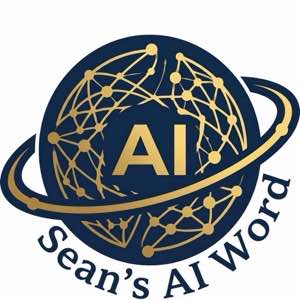
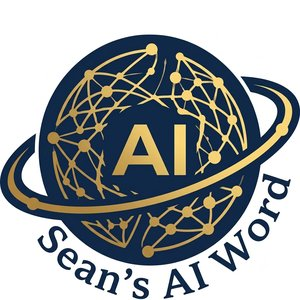
fix(seo): og:image 改为 300x300 28KB，满足微信 32KB 限制
微信朋友圈读取的是 og:image（非 wx:thumbnail），之前 og:image 指向
1024x1024 64KB 图片，超过微信 32KB 限制被拒。

修复：
- og-image.jpg 用 Python Pillow 重新压缩到 300x300 28KB
- og:image/wx:thumbnail 统一使用 28KB 图片
- 隐藏 img 改回 width=0 height=0（微信建议做法）
- 所有 URL 追加 v=3 参数强制刷新微信缓存

diff --git a/frontend/src/app/blog/[id]/layout.tsx b/frontend/src/app/blog/[id]/layout.tsx
@@ -37,14 +37,14 @@ function getSiteUrl(): string {
  * 将可能为相对路径的封面图 URL 转为绝对 URL（OG 要求绝对路径）
  */
 function resolveImageUrl(imagePath: string | null | undefined): string {
-  if (!imagePath) return `${getSiteUrl()}/og-image.jpg?v=2`;
+  if (!imagePath) return `${getSiteUrl()}/og-image.jpg?v=3`;
   if (imagePath.startsWith('http')) return imagePath;
   return `${getSiteUrl()}${imagePath.startsWith('/') ? '' : '/'}${imagePath}`;
 }
 
 /** 微信 thumbnail 专用：默认用 300x300 小图（微信限制 32KB），有封面图则用封面 */
 function resolveWechatThumbnail(imagePath: string | null | undefined): string {
-  if (!imagePath) return `${getSiteUrl()}/og-image-wechat.jpg?v=2`;
+  if (!imagePath) return `${getSiteUrl()}/og-image-wechat.jpg?v=3`;
   if (imagePath.startsWith('http')) return imagePath;
   return `${getSiteUrl()}${imagePath.startsWith('/') ? '' : '/'}${imagePath}`;
 }
@@ -110,17 +110,17 @@ export async function generateMetadata({
         title: "文章详情 - Sean's AI World",
         description: '个人技术博客，探索 AI 与软件开发',
         type: 'website',
-        images: [`${siteUrl}/og-image.jpg?v=2`],
+        images: [`${siteUrl}/og-image.jpg?v=3`],
       },
       twitter: {
         card: 'summary',
         title: "文章详情 - Sean's AI World",
         description: '个人技术博客，探索 AI 与软件开发',
-        images: [`${siteUrl}/og-image.jpg?v=2`],
+        images: [`${siteUrl}/og-image.jpg?v=3`],
       },
       other: {
         'wx:webpage': 'true',
-        'wx:thumbnail': `${siteUrl}/og-image-wechat.jpg?v=2`,
+        'wx:thumbnail': `${siteUrl}/og-image-wechat.jpg?v=3`,
       },
     };
   }
@@ -140,8 +140,8 @@ export async function generateMetadata({
       images: [
         {
           url: ogImage,
-          width: article.coverImage ? 1200 : 1024,
-          height: article.coverImage ? 630 : 1024,
+          width: article.coverImage ? 1200 : 300,
+          height: article.coverImage ? 630 : 300,
           alt: article.title,
         },
       ],

diff --git a/frontend/src/app/layout.tsx b/frontend/src/app/layout.tsx
@@ -36,9 +36,9 @@ export const metadata: Metadata = {
     siteName: "Sean's AI World",
     images: [
       {
-        url: '/og-image.jpg',
-        width: 1024,
-        height: 1024,
+        url: '/og-image.jpg?v=3',
+        width: 300,
+        height: 300,
         alt: "Sean's AI World",
       },
     ],
@@ -55,7 +55,7 @@ export const metadata: Metadata = {
   },
   other: {
     'wx:webpage': 'true',
-    'wx:thumbnail': `${SITE_URL}/og-image-wechat.jpg?v=2`,
+    'wx:thumbnail': `${SITE_URL}/og-image-wechat.jpg?v=3`,
   },
 }
 
@@ -82,10 +82,10 @@ export default function RootLayout({ children }: { children: React.ReactNode }) 
             300×300 尺寸确保被爬虫识别为有效图片（1×1 可能被当作埋点像素忽略），
             CSS 隐藏避免影响页面渲染 */}
         <img
-          src={`${SITE_URL}/og-image-wechat.jpg?v=2`}
+          src={`${SITE_URL}/og-image-wechat.jpg?v=3`}
           alt=""
-          width="300"
-          height="300"
+          width="0"
+          height="0"
           style={{ position: 'absolute', opacity: 0, pointerEvents: 'none' }}
         />
         <ChatProviderWrapper>

diff --git a/frontend/src/app/blog/[id]/page.tsx b/frontend/src/app/blog/[id]/page.tsx
@@ -516,7 +516,7 @@ export default function ArticleDetailPage() {
             ? article.coverImage.startsWith('http')
               ? article.coverImage
               : `${process.env.NEXT_PUBLIC_SITE_URL || 'http://localhost:3000'}${article.coverImage.startsWith('/') ? '' : '/'}${article.coverImage}`
-            : `${process.env.NEXT_PUBLIC_SITE_URL || 'http://localhost:3000'}/og-image-wechat.jpg?v=2`
+            : `${process.env.NEXT_PUBLIC_SITE_URL || 'http://localhost:3000'}/og-image-wechat.jpg?v=3`
         }
       />
     </>
